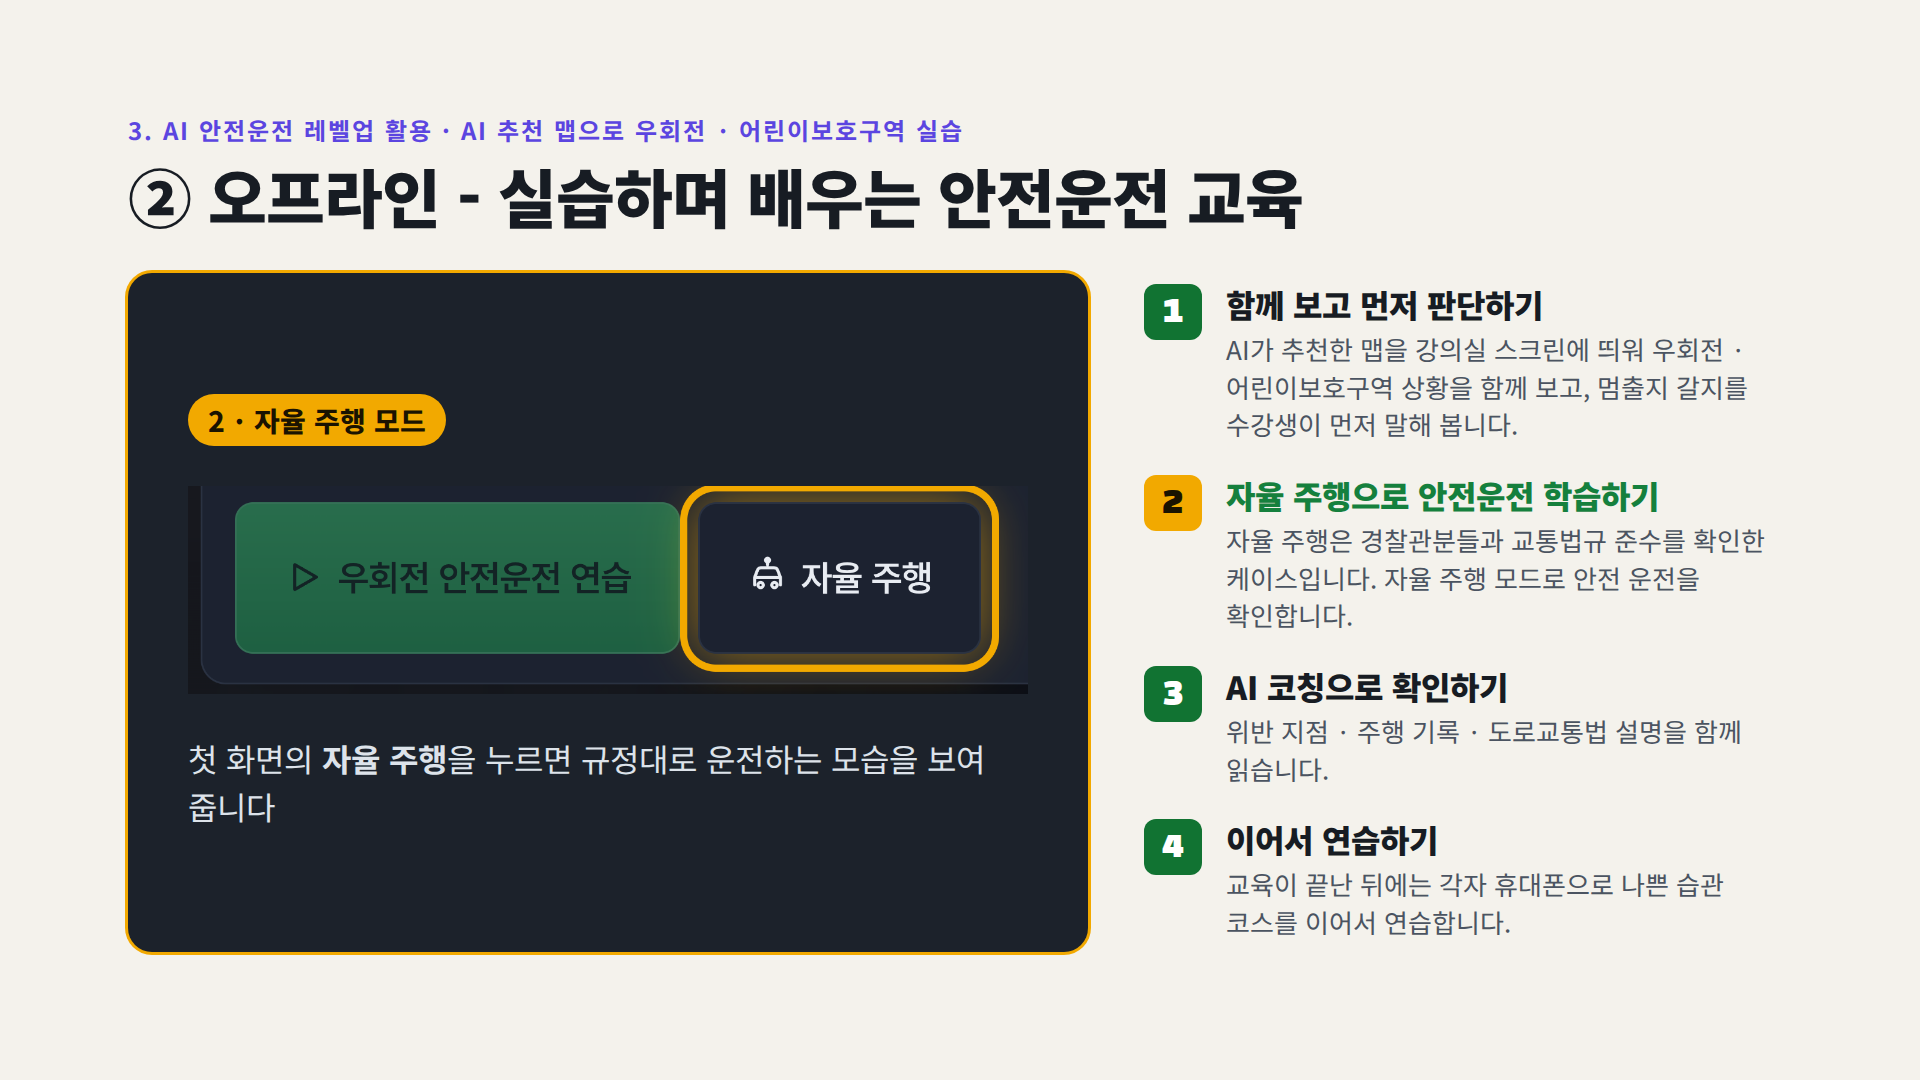
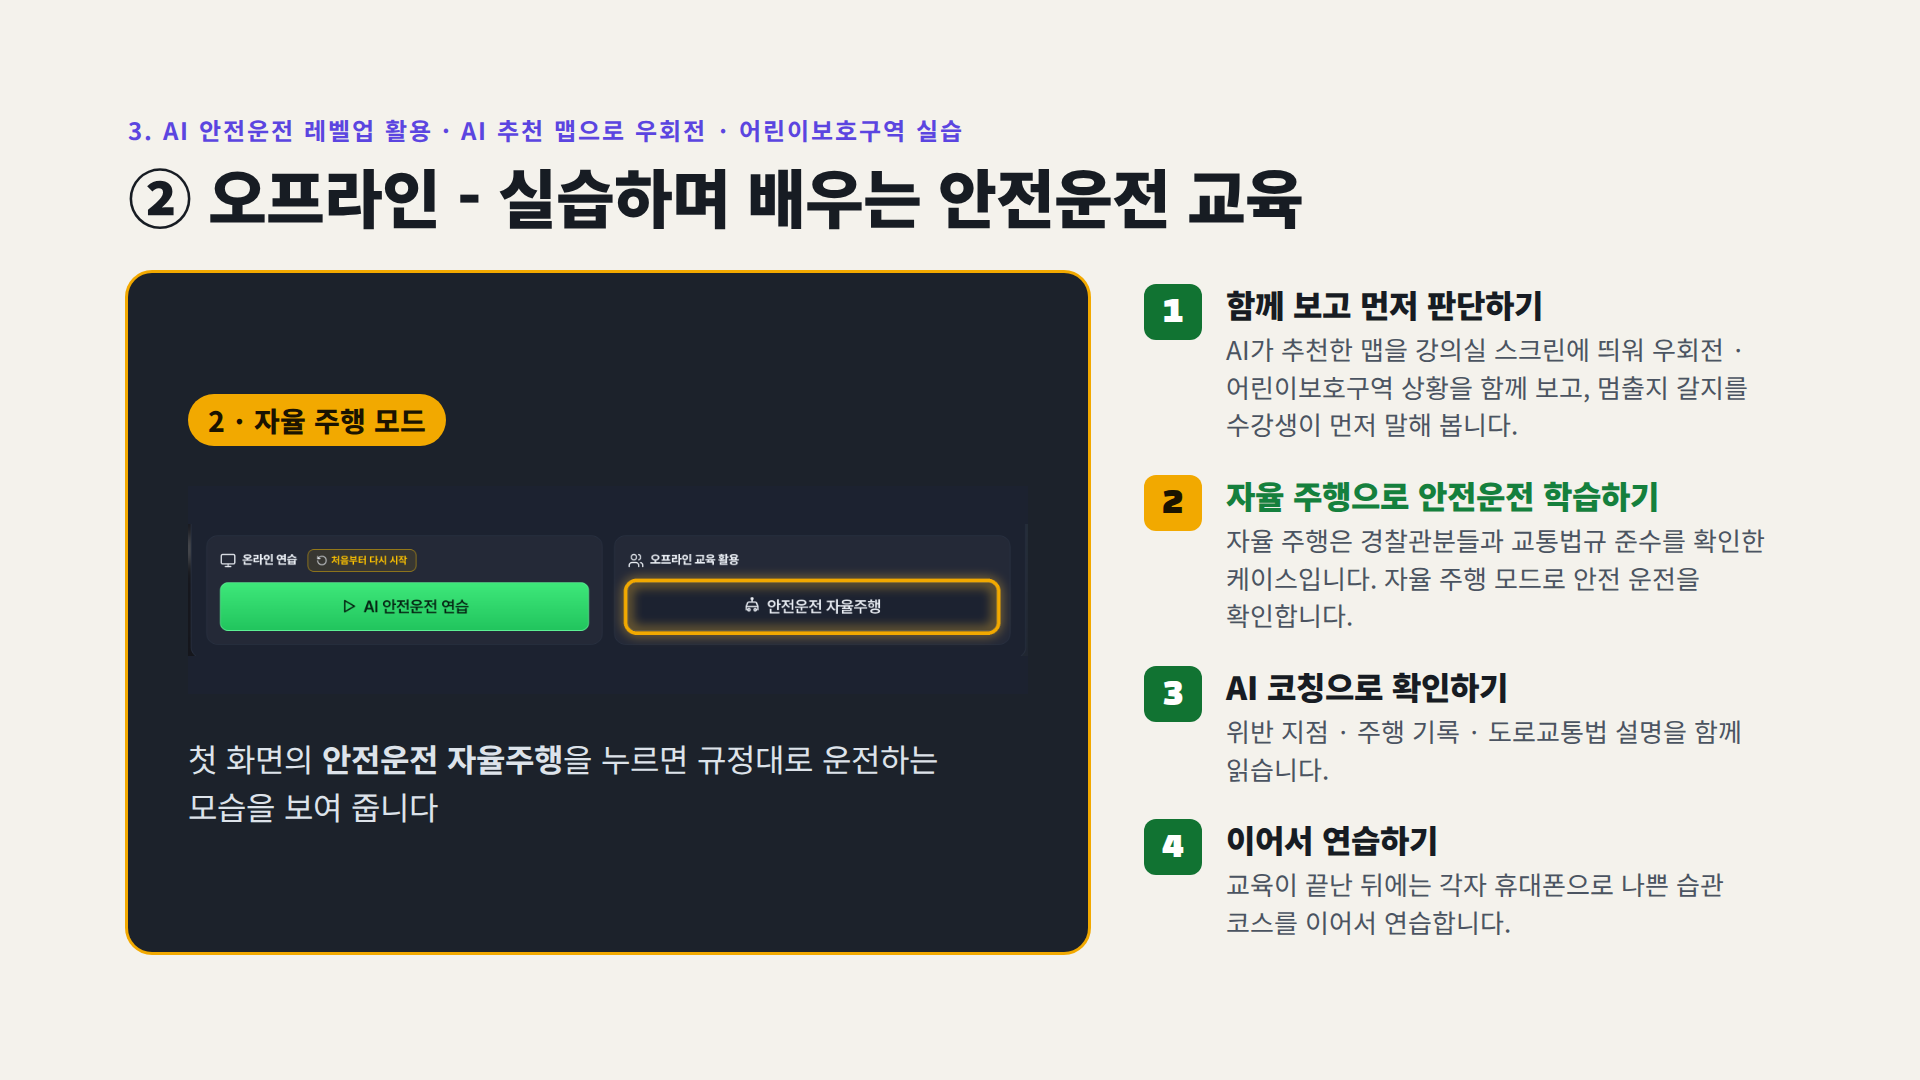
오프라인 교육 장표의 버튼 그림을 지금 첫 화면으로 바꾼다
그림 속 버튼이 '우회전 안전운전 연습' 과 '자율 주행' 이라, 장표를 보고
첫 화면을 열면 그런 이름의 버튼이 없었다. 지금의 두 카드를 찍고
'안전운전 자율주행' 에 노란 테를 둘렀다. 장표의 안내 문장도 맞췄다.

Changed region(s): [[0.0938, 0.4278, 0.5312, 0.6417], [0.0938, 0.6722, 0.5, 0.7639]]

diff --git a/CHANGELOG.md b/CHANGELOG.md
@@ -77,6 +77,8 @@
   - 휴대폰 둘은 터치 기기로 찍어 **화면의 화살표 버튼**이 보입니다 — 장표가 "모바일은 화면의 화살표 버튼으로 운전합니다" 라고 말하고 있어서입니다.
   - README 의 저절로 넘어가는 장표(`docs/portfolio-slideshow.webp`)도 그 두 칸만 다시 만들었습니다 — 판 번호 딱지는 예전 칸에서 옮겨 붙였습니다.
 
+- **오프라인 교육 장표(23장)의 버튼 그림도 지금 첫 화면으로 바꿨습니다** (`docs/autodrive-button.png`). 그림 속 버튼이 **`우회전 안전운전 연습`** · **`자율 주행`** 이라, 장표를 보고 첫 화면을 열면 그런 이름의 버튼이 없었습니다. 지금의 두 카드(**온라인 연습** · **오프라인 교육 활용**)를 찍고 **`안전운전 자율주행`** 에 노란 테를 둘렀습니다. 장표의 안내 문장도 "첫 화면의 **안전운전 자율주행**을 누르면" 으로 맞췄습니다.
+
 - **포트폴리오 마지막 장의 제목을 '만든 사람과 라이선스' → '만든 사람'** 으로 줄였습니다 (사용자가 정했습니다).
 
 - **포트폴리오 넘겨 보기 페이지의 파일 이름도 바꿨습니다 — `AI_safeturn_portfolio.html` → `AI_safelevelup_portfolio.html`.** 주소가 `safedrive.ai.kr` 이 된 마당에 파일 이름만 옛 이름이라 어색했습니다. **옛 주소로 들어와도 새 파일로 넘겨줍니다**(`vercel.json` 의 301) — 지금까지 건네 둔 링크가 끊기지 않습니다.
